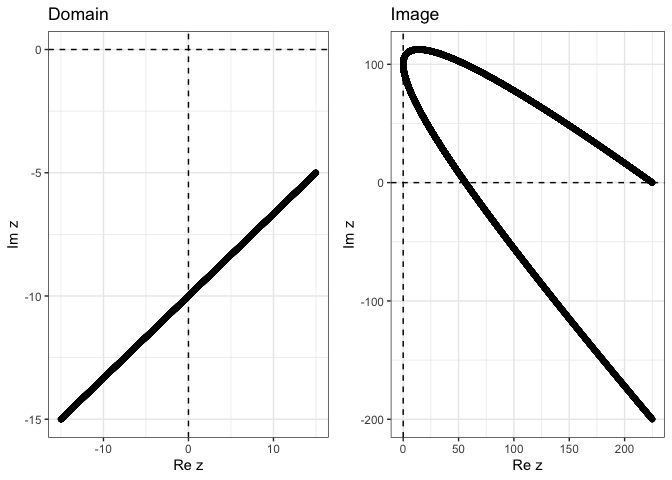
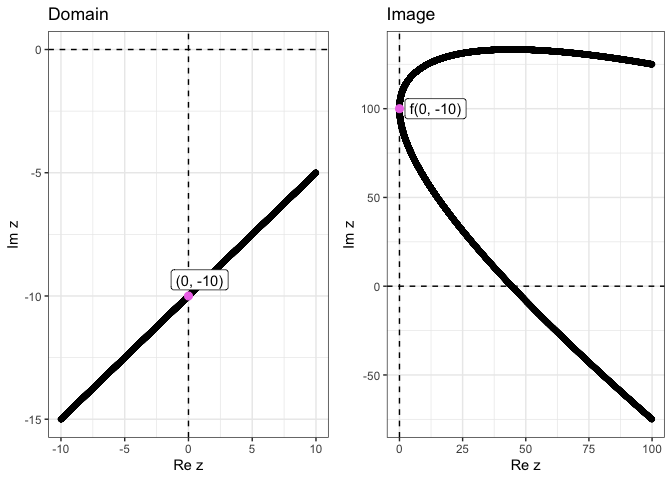
added annotations in readme

diff --git a/README.md b/README.md
@@ -35,7 +35,7 @@ devtools::install_github("Swaha294/complexR")
     ## Downloading GitHub repo Swaha294/complexR@HEAD
 
     ## 
-    ##      checking for file ‘/private/var/folders/0p/hkwpsbqj047d4nq34kz3_wdr0000gn/T/RtmpyAlFbo/remotes431d5c8b455d/Swaha294-complexR-fa64f4b/DESCRIPTION’ ...  ✔  checking for file ‘/private/var/folders/0p/hkwpsbqj047d4nq34kz3_wdr0000gn/T/RtmpyAlFbo/remotes431d5c8b455d/Swaha294-complexR-fa64f4b/DESCRIPTION’ (393ms)
+    ##      checking for file ‘/private/var/folders/0p/hkwpsbqj047d4nq34kz3_wdr0000gn/T/Rtmpx7Tza5/remotes640260d07c6b/Swaha294-complexR-5c3fdf2/DESCRIPTION’ ...  ✔  checking for file ‘/private/var/folders/0p/hkwpsbqj047d4nq34kz3_wdr0000gn/T/Rtmpx7Tza5/remotes640260d07c6b/Swaha294-complexR-5c3fdf2/DESCRIPTION’
     ##   ─  preparing ‘complexR’:
     ##      checking DESCRIPTION meta-information ...  ✔  checking DESCRIPTION meta-information
     ##   ─  checking for LF line-endings in source and make files and shell scripts
@@ -66,10 +66,11 @@ $y = 3x - 10$
 
 ``` r
 line_transform(
-  m = 3, 
+  m = 2, 
   c = -10,
   x_new = expression(x^2), 
-  y_new = expression(y^2 - x^2)
+  y_new = expression(y^2 - x^2),
+  annotations = c(complex(real = 0, imaginary = -10))
   )
 ```
 
